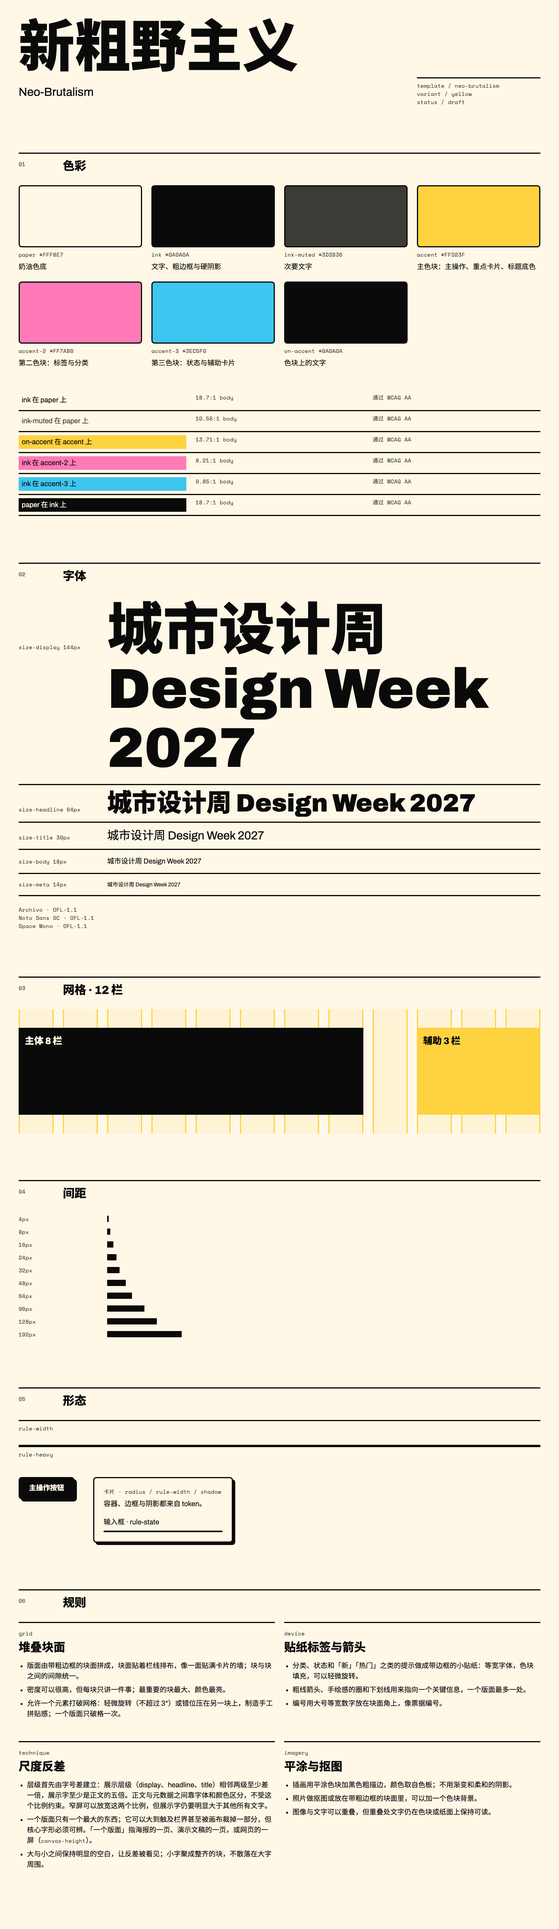
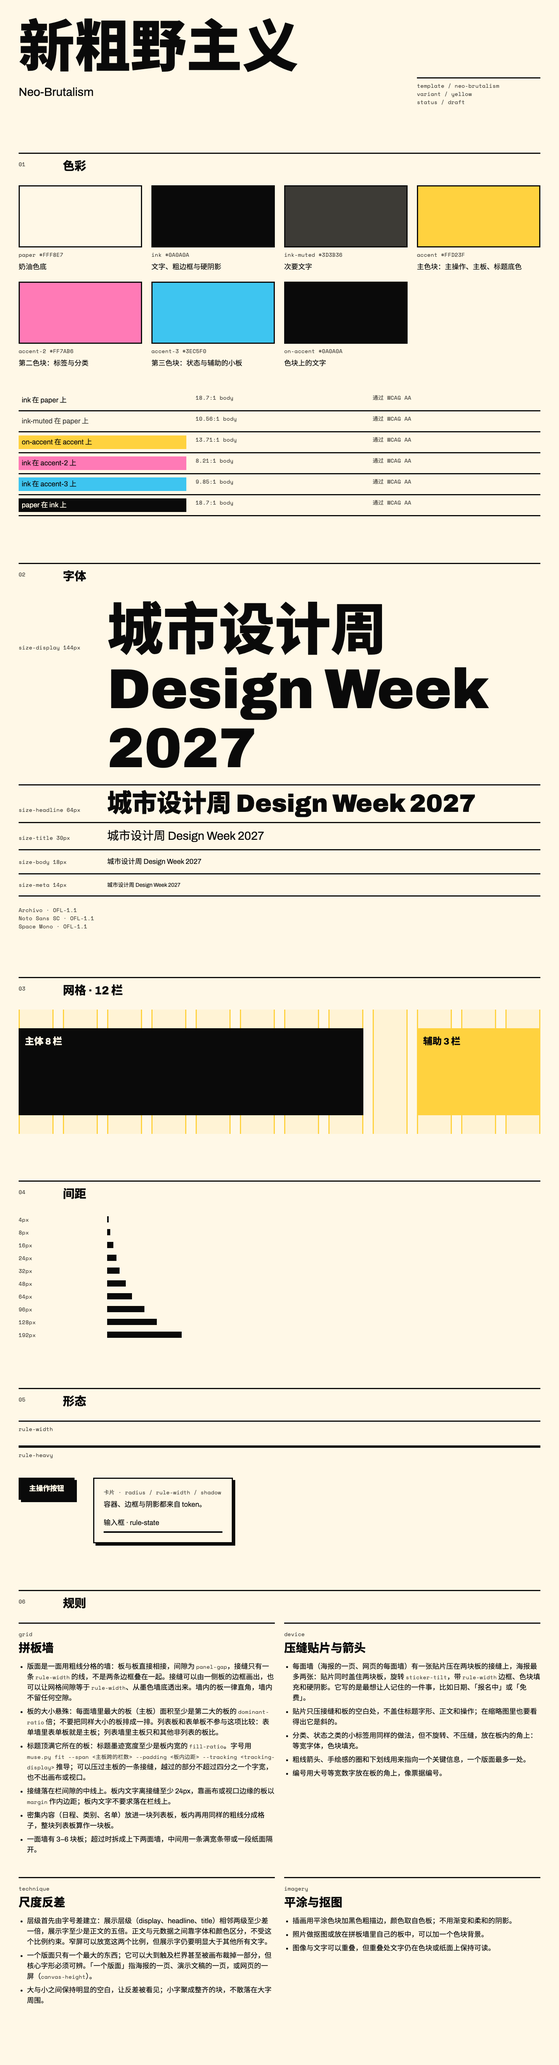
feat(musekit): give neo-brutalism a layout grammar of its own
The neo-brutalism grid seed stacked bordered cards on a uniform gutter,
so with colour and shadows removed the style collapsed into a generic
card grid. It is replaced by panel-wall: panels butt against each other
on one shared rule, one dominant panel outweighs the rest
(dominant-ratio) and its title fills it (fill-ratio), and a sticker
tilted by sticker-tilt straddles a seam. Each rule is a token so a
rendered page can be measured against it, and panel-wall declares
conflicts with the ma-interval and hairline seeds.

The template grammar and graphic and web adaptations are rewritten
around the wall, including form and list walls, tablet and mobile
fallbacks and inset focus rings inside the wall. Borders become square,
shadows are kept for controls and stickers, and the specimen is
re-rendered. The MIT-licensed neobrutalism-components library is added
as a precedent for component states and the marquee band.

Changed region(s): [[0.0312, 0.0, 0.9688, 0.9672], [0.7188, 0.468, 0.9688, 0.5928], [0.125, 0.6552, 0.1562, 0.6864]]

diff --git a/plugins/musekit/skills/musepool/library/templates/neo-brutalism.md b/plugins/musekit/skills/musepool/library/templates/neo-brutalism.md
@@ -11,7 +11,7 @@ mood: [直接, 有力, 好玩, 年轻, 叛逆, 热闹, 活力, 创意, 工具, b
 seeds:
   color: raw-primary
   typography: heavy-grotesk
-  grid: stacked-blocks
+  grid: panel-wall
   spacing: baseline-8
   shape: thick-border
   depth: hard-shadow
@@ -49,25 +49,31 @@ overrides:
         size-title: 22px
         ratio-adjacent: 1.6
         ratio-display: 3
-exemplars: [pibXRzsG, AT5oq8hX]
+exemplars: [pibXRzsG, AT5oq8hX, nB7kQ2mX]
 ---
 
 # 新粗野主义
 
 ## 精神
 
-把界面的结构直接露出来：粗边框、硬阴影、平涂的原色块和超粗的字，像一面贴满卡片和贴纸的墙。它不讨好，直接告诉你重点在哪里、按哪里。适合活动、创意工具和年轻品牌；关系与顺序必须坚决清楚，夸张才不会变成混乱。
+把版面的结构直接亮出来：一面用粗黑线分格的墙，板与板直接相接；一块大板压倒其余的小板，标题把大板塞满；一张歪着的贴片压在接缝上。它不讨好，直接告诉你重点在哪里、按哪里。适合活动、创意工具和年轻品牌。墙的分格必须坚决清楚，夸张才不会变成混乱。
 
 ## 文法
 
-- **网格**：12 栏上堆叠带粗边框的块面，间隙统一；密度可以高，但每块只讲一件事。一个版面只允许一处破格（轻微旋转或错位）。
-- **对齐**：块面贴着栏线；块内文字齐左，留足内边距。
-- **层级**：超粗展示字与常规正文形成强烈的尺度反差；最重要的块最大、颜色最亮。阴影只给可交互元素和最重要的一两块卡片，方向和距离全页一致。
-- **留白**：靠块与块之间的统一间隙和块内的内边距，而不是大片空白。
-- **色彩**：奶油底上平涂原色块，文字永远是黑色；三种色块按角色分工，彩色不做文字色。
-- **装置**：贴纸标签、粗线箭头、大号等宽编号。
-- **图像**：平涂插画或带粗边框、色块背景的抠图照片。
-- **状态**：悬停时阴影加长到 `shadow-hover`，按下时缩短到 `shadow-press` 并朝阴影方向位移；焦点框用 `rule-state` 黑线并与边框隔开 `focus-offset`；出错字段边框加粗到 `rule-state`，旁边一张写明原因的贴纸；完成态用主色块卡片替换表单。
+版式有三条必须同时成立的规则，去掉颜色和阴影后，靠它们认出这个风格：
+
+1. **零间隙拼板**：板与板直接相接，共用一条 `rule-width` 的线，`panel-gap` 为 0；墙内不留缝，板一律直角。
+2. **板面悬殊、字顶满板**：每面墙里主板面积至少是第二大的板的 `dominant-ratio` 倍；标题墨迹宽至少是主板内宽的 `fill-ratio`。
+3. **倾斜压缝**：每面墙有一张贴片压在两块板的接缝上（海报最多两张），旋转 `sticker-tilt`。
+
+- **网格**：12 栏只用来定接缝的位置，接缝落在栏间隙的中线上。一面墙有 3–6 块板；同级条目（类别、日程）收进一块列表板，板内用同样的粗线分格。
+- **对齐**：板内文字齐左，离接缝至少 24px；靠画布或视口边缘的板以 `margin` 作内边距。标题可以压过主板的一条接缝，越过的部分不超过四分之一个字宽，也不出画布或视口。
+- **层级**：主板最大、颜色最亮，里面只有标题、一句说明和主操作（或最关键的一条事实）。其余信息退到墙边的小板里。
+- **留白**：墙内没有空隙，透气靠板内的内边距；两面墙之间可以隔一段纸面或一条满宽条带。
+- **色彩**：奶油底上平涂原色板，文字永远是黑色；三种色板按角色分工，彩色不做文字色。可以有一块墨底的板，上面用纸色字。
+- **装置**：压缝贴片、粗线箭头、大号等宽编号。可选一条满宽条带，整个版面最多一条，水平放置：只有上下两条边线，左右出血，里面是等宽字重复的真实信息（日期、地点）；它可以静止，动起来时要尊重 reduced-motion。
+- **图像**：平涂插画或带粗边框、色块背景的抠图照片，放进自己的板里，与其他板共用接缝。
+- **状态**：悬停时阴影加长到 `shadow-hover`，按下时缩短到 `shadow-press` 并朝阴影方向位移；焦点框用 `rule-state` 黑线并与边框隔开 `focus-offset`，墙内相接的格子改用向内收的焦点框并填主色，否则外扩的框会被相邻格子盖住；出错字段边框加粗到 `rule-state`，旁边一张写明原因的标签；完成态用主色板替换表单所在的板。
 
 ## 场景适配
 
@@ -75,29 +81,32 @@ exemplars: [pibXRzsG, AT5oq8hX]
 
 海报、封面、社媒图。覆盖值按 1080 × 1440 的画布给出（`canvas-width`、`canvas-height`）。
 
-- 标题本身就是一块砖：超粗、紧排，可以放在一块主色块里，块面带硬阴影；或直接压在奶油底上跨满栏宽。
-- 日期、地点等信息放进几块小卡片，卡片带边框，用第二、三种色块区分；只有最重要的一张带阴影。
-- 用一张贴纸（旋转不超过 3°）标出最想让人记住的一件事，比如日期或「免费」。
-- 一个版面里色块最多三种，阴影方向一致。
+- 整张海报是一面墙：外框画在 `margin` 内，墙里 3–6 块板，海报可以给整面墙的外缘加一道硬阴影。
+- 主板跨满 12 栏，占墙面高度的一半以上，放标题、副标题和最关键的一条事实（通常是日期）。标题用 `fit --span 12 --padding <板内边距> --tracking <tracking-display>` 推导字号，顶满主板；主板下部的空白留给贴片。
+- 其余信息（地点、主办）排成主板下方或一侧的窄板，宽窄、高矮都不一样，不排成等大的格子。类别、日程之类的同级条目收进一块列表板。
+- 一张贴片压在主板与下方板的接缝上，旋转 `sticker-tilt`，写最想让人记住的一件事；最多再加一张。
+- 可选一条满宽条带横穿墙面，不算进板的数量；它不能占用贴片压住的那条接缝。
+- 一个版面里色板最多三种，加一块墨底板。
 
 ### web
 
 官网、落地页、工具界面。参照视口 1440 × 900px。
 
-- 首屏：超粗标题加一句说明，主操作是带粗边框和硬阴影的主色块按钮；旁边可以放一张旋转的贴纸或一块插画。
-- 内容区用卡片网格，每张卡片一个主题。内容有分类时用不同色块区分类型；没有分类时按重要性给一两张卡片上主色块，其余用纸色。可以点击的卡片才有阴影。
-- 首屏以下每一段换一种块面组合：大卡片加小卡片、横向条带、两栏贴纸墙，相邻两段不用同一种；每段有一块「最大的块」作为入口。
-- 导航是一排带边框的方形按钮或文字链接；多页站点的当前页用主色块填充，单页站点用锚点导航，当前章节加粗下划线。
-- 表单输入框用 `rule-width` 黑边框和奶油底，焦点时加主色块底和焦点框；出错与完成见文法里的「状态」，不只靠颜色。
-- 1100px 以下：卡片网格改为两列，展示字按 `tablet` 断点缩小，边框与阴影不变。
-- 窄屏退为 4 栏：卡片单列堆叠，阴影距离不变，展示字按 `mobile` 断点缩小。
+- 墙出血到视口两侧，左右外缘不画边框；`margin` 是靠边的板的内边距。
+- 导航是一条横向的板：每个导航项占一格，格与格共用竖线；当前项用主色板填充，单页站点用锚点导航，当前章节填充主色。
+- 首屏是一面墙：主板跨左侧 8 栏，放超粗标题、一句说明和主操作，标题用 `fit --span 8 --padding <板内边距> --tracking <tracking-display>` 推导；右侧 4 栏竖排日期、地点、主办三块小板，共用横线。一张贴片压在主板与右侧小板的接缝上。
+- 首屏以下每一段是一面新墙，同样满足文法的三条：零间隙、主板被标题顶满、一张压缝贴片。相邻两面墙的切分方式不同（左大右小、上大下小、主板加列表板）。这些墙的标题是章节入口，主板跨的栏数要让 `fit` 推出的字号不超过首屏标题。墙与墙之间可以隔一条满宽条带。
+- 类别、日程等同级条目收进一块列表板，板内粗线分格；可以点击的格子悬停时填充主色，不加阴影。按钮和贴片才有阴影。
+- 报名、联系之类的表单墙里，表单板就是主板：它的标题顶满表单板上方，平时用纸色，完成态填主色；步骤和须知放在旁边的窄板里。输入框用 `rule-width` 黑边框和奶油底，焦点时加主色底和焦点框；出错与完成见文法里的「状态」，不只靠颜色。
+- 1100px 以下：主板跨满宽度，右侧的小板移到主板下方，排成一行共用竖线；展示字按 `tablet` 断点缩小，贴片仍压在主板下缘的接缝上。
+- 窄屏退为 4 栏：所有板单列堆叠，仍共用横线、不留缝；每面墙的主板放在最前，高度至少是同墙其他非列表、非表单板的两倍；贴片缩小并保留旋转，整体留在视口内；条带保留，字号随 `size-title` 缩小。
 
 ## 常见误用
 
-只给普通卡片加粗黑框、随机涂上鲜艳颜色，并不是这种风格；所有元素都有阴影、都在旋转、都抢第一，页面就会变成噪音；把彩色当文字色会让内容读不清。判断方法：去掉颜色后，仍应能凭粗边框、硬阴影和超粗标题看出清楚的主次。
+最常见的退化是卡片网格：板之间留着统一的空隙，每块各自带边框、阴影和圆角，大小差不多。即使边框够粗、颜色够亮，也只是普通的卡片墙。其次是没有主次：所有板一样大，标题缩在板的一角，贴片端正地放在板里而不压缝。所有东西都有阴影、都在旋转、都抢第一时，页面会变成噪音；把彩色当文字色会让内容读不清。判断方法：转成灰度并去掉阴影后，仍应能看出一面零间隙的拼板墙、一块被标题塞满的主板和一张斜压在接缝上的贴片。
 
 ## 范例
 
-- `pibXRzsG` 活动设计机构：粉、橙、绿整块撞色的分区和超粗紧排的标题。借它的色块撞色与标题力度，不借它的胶囊按钮。
+- `pibXRzsG` 活动设计机构：满幅色块分区、一块占满视口高的巨大色块和一条横向滚动条带。借它的主板压倒和条带，不借它的胶囊按钮和居中构图。
 - `AT5oq8hX` 品牌设计师作品集：黑底上的超大标题和橙色动态文字段落，标签为 brutalist。借它直接、不讨好的标题处理。
-- 库中暂无同时具备粗边框与硬阴影的真实范例。
+- `nB7kQ2mX` 新粗野主义组件库：粗边框、硬阴影和满宽条带的组件级做法。借它的条带和状态细节；它的悬停是平移进阴影、阴影归零，这里改为阴影加长。它的页面是卡片网格，版式不从它借。

diff --git a/plugins/musekit/skills/musepool/library/precedents/ui/neobrutalism-components-nb7kq2mx.md b/plugins/musekit/skills/musepool/library/precedents/ui/neobrutalism-components-nb7kq2mx.md
@@ -1,0 +1,92 @@
+---
+id: nB7kQ2mX
+scenario: ui
+scenario_name: 界面
+category: neobrutalism component library
+modality: design-system
+view_type: component-library
+source_url: https://github.com/ekmas/neobrutalism-components
+source_revision: f3c4d42973819ab5cf18697d08d6bd46f384d335
+source_license: MIT
+visual_assets_included: false
+core_dimensions:
+- color
+- typography
+- craft
+scores:
+  anti_slop_value: 0.6
+  code_value: 0.8
+  density: 0.5
+  motion_intensity: 0.3
+  novelty: 0.5
+  visual_value: 0.6
+tags:
+  color:
+  - multi-accent
+  - saturated
+  - black-outline
+  domain:
+  - developer-tools
+  - design-system
+  imagery:
+  - no-imagery
+  - svg-led
+  layout:
+  - centered
+  - card-grid
+  material:
+  - no-material
+  motion:
+  - marquee
+  - hover-reveal
+  style:
+  - bold
+  - playful
+  - brutalist
+  tech:
+  - react
+  - tailwind
+  - shadcn-ui
+  typography:
+  - sans-serif
+  - grotesque
+dimensions_with_reference:
+- craft
+---
+
+> 借鉴范围：只借组件层的状态与条带做法；它的页面是居中首屏加卡片网格，版式不作为参考。下文记录参考本身的方法，其参数、布局和技术栈不自动成为当前任务要求。
+
+# Narrative
+
+An open-source collection of neobrutalism-styled React components built on shadcn/ui, presented on a documentation site with a centered landing hero, scattered star shapes and a single call to action. Its purpose is to give developers a ready vocabulary for the style at the component level: buttons, cards, inputs, menus, charts and a marquee band.
+
+# Tech Stack
+
+React components on shadcn/ui and Base UI, styled with Tailwind CSS v4. Style values live in CSS custom properties in one global stylesheet and are exposed as Tailwind theme tokens, so a palette or shadow offset changes in one place. No visual assets from the source project are bundled here; method notes are adapted from the MIT-licensed source at the revision recorded in frontmatter. See `references/third-party-notices.md`.
+
+# Layout
+
+The library does not prescribe page layout. The documentation site is a centered hero followed by component previews; cards in examples sit in ordinary gapped grids.
+
+# Typography
+
+A single geometric sans (DM Sans by default) with two weights: 700 for headings, 500 for base text. Hierarchy comes from size and weight rather than from a separate display face.
+
+# Color
+
+One main accent (a saturated blue by default, swappable), black borders and foreground, and a light secondary background. Shadows and borders share the border color, so the outline and the offset shadow read as one black drawing.
+
+# Components
+
+- Every container and control has a 2px solid black border and a 5px radius.
+- The default shadow is a hard 4px × 4px offset with no blur, in the border color.
+- Default buttons move by the shadow offset on hover and drop the shadow, so the button appears pressed into its own shadow; a `reverse` variant starts flat and gains the shadow on hover; a `noShadow` variant exists for dense contexts.
+- The marquee is a full-width band with top and bottom borders only, bleeding past the side edges, with large repeated text items scrolling horizontally.
+
+# Motion
+
+Motion is limited to the marquee scroll and the press-into-shadow hover translation. Both are short, linear and mechanical rather than springy.
+
+# Craft
+
+The value of the library is consistency: one border width, one shadow offset and one radius across every component, all driven by tokens.

diff --git a/plugins/musekit/skills/musepool/library/seeds/grid/panel-wall.md b/plugins/musekit/skills/musepool/library/seeds/grid/panel-wall.md
@@ -1,0 +1,48 @@
+---
+id: panel-wall
+category: grid
+nature: rule
+name: 拼板墙
+status: draft
+scenes: [graphic, web, slides]
+affinity: [neo-brutalism]
+conflicts: [off-center-void, ma-interval, zero-radius-hairline]
+tokens:
+  canvas-width:
+    value: 1440px
+    role: 参照画布宽度：网页是参照视口宽，平面是画布宽
+  canvas-height:
+    value: 900px
+    role: 参照画布高度：网页是首屏高度，平面是画布高度
+  columns:
+    value: 12
+  gutter:
+    value: 24px
+    role: 栏间隙：只用来定栏线；板与板之间不留间隙，接缝落在栏间隙的中线上
+  margin:
+    value: 48px
+  panel-gap:
+    value: 0px
+    role: 相邻两块板的间隙：板与板直接相接，共用一条 rule-width 的线
+  dominant-ratio:
+    value: 2
+    role: 一面墙里最大的板与第二大的板的最小面积比
+  fill-ratio:
+    value: 0.9
+    role: 标题墨迹宽度占所在板内宽的最小比例
+---
+
+# 拼板墙
+
+## 要点
+
+- 版面是一面用粗线分格的墙：板与板直接相接，间隙为 `panel-gap`，接缝只有一条 `rule-width` 的线，不是两条边框叠在一起。接缝可以由一侧板的边框画出，也可以让网格间隙等于 `rule-width`、从墨色墙底透出来。墙内的板一律直角，墙内不留任何空隙。
+- 板的大小悬殊：每面墙里最大的板（主板）面积至少是第二大的板的 `dominant-ratio` 倍；不要把同样大小的板排成一排。列表板和表单板不参与这项比较：表单墙里表单板就是主板；列表墙里主板只和其他非列表的板比。
+- 标题顶满它所在的板：标题墨迹宽度至少是板内宽的 `fill-ratio`。字号用 `muse.py fit --span <主板跨的栏数> --padding <板内边距> --tracking <tracking-display>` 推导；可以压过主板的一条接缝，越过的部分不超过四分之一个字宽，也不出画布或视口。
+- 接缝落在栏间隙的中线上。板内文字离接缝至少 24px，靠画布或视口边缘的板以 `margin` 作内边距；板内文字不要求落在栏线上。
+- 密集内容（日程、类别、名单）放进一块列表板，板内再用同样的粗线分成格子，整块列表板算作一块板。
+- 一面墙有 3–6 块板；超过时拆成上下两面墙，中间用一条满宽条带或一段纸面隔开。
+
+## 适用与边界
+
+拼板墙不是卡片网格：如果板之间留了缝、每块各自带阴影或圆角，读者看到的就是一排卡片。主板里只放标题、一句说明和主操作（或最关键的一条事实），不要再嵌套小卡片。表单和数据表放在自己的板里，板内保持规整。

diff --git a/plugins/musekit/skills/musepool/references/third-party-notices.md b/plugins/musekit/skills/musepool/references/third-party-notices.md
@@ -15,3 +15,19 @@ The above copyright notice and this permission notice shall be included in all c
 THE SOFTWARE IS PROVIDED "AS IS", WITHOUT WARRANTY OF ANY KIND, EXPRESS OR IMPLIED, INCLUDING BUT NOT LIMITED TO THE WARRANTIES OF MERCHANTABILITY, FITNESS FOR A PARTICULAR PURPOSE AND NONINFRINGEMENT. IN NO EVENT SHALL THE AUTHORS OR COPYRIGHT HOLDERS BE LIABLE FOR ANY CLAIM, DAMAGES OR OTHER LIABILITY, WHETHER IN AN ACTION OF CONTRACT, TORT OR OTHERWISE, ARISING FROM, OUT OF OR IN CONNECTION WITH THE SOFTWARE OR THE USE OR OTHER DEALINGS IN THE SOFTWARE.
 
 The source repository's visual examples and artwork use a separate, more restrictive asset license. No such visual assets are copied or bundled here.
+
+## neobrutalism-components
+
+The `library/precedents/ui/neobrutalism-components-nb7kq2mx.md` precedent records component-level methods from [ekmas/neobrutalism-components](https://github.com/ekmas/neobrutalism-components) at revision `f3c4d42973819ab5cf18697d08d6bd46f384d335`.
+
+MIT License
+
+Copyright (c) 2023 Samuel Breznjak
+
+Permission is hereby granted, free of charge, to any person obtaining a copy of this software and associated documentation files (the "Software"), to deal in the Software without restriction, including without limitation the rights to use, copy, modify, merge, publish, distribute, sublicense, and/or sell copies of the Software, and to permit persons to whom the Software is furnished to do so, subject to the following conditions:
+
+The above copyright notice and this permission notice shall be included in all copies or substantial portions of the Software.
+
+THE SOFTWARE IS PROVIDED "AS IS", WITHOUT WARRANTY OF ANY KIND, EXPRESS OR IMPLIED, INCLUDING BUT NOT LIMITED TO THE WARRANTIES OF MERCHANTABILITY, FITNESS FOR A PARTICULAR PURPOSE AND NONINFRINGEMENT. IN NO EVENT SHALL THE AUTHORS OR COPYRIGHT HOLDERS BE LIABLE FOR ANY CLAIM, DAMAGES OR OTHER LIABILITY, WHETHER IN AN ACTION OF CONTRACT, TORT OR OTHERWISE, ARISING FROM, OUT OF OR IN CONNECTION WITH THE SOFTWARE OR THE USE OR OTHER DEALINGS IN THE SOFTWARE.
+
+No code, screenshots or visual assets from the source repository are copied or bundled here.

diff --git a/plugins/musekit/skills/musepool/library/seeds/device/sticker-label.md b/plugins/musekit/skills/musepool/library/seeds/device/sticker-label.md
@@ -2,21 +2,27 @@
 id: sticker-label
 category: device
 nature: rule
-name: 贴纸标签与箭头
+name: 压缝贴片与箭头
 status: draft
 scenes: [graphic, web, slides]
 affinity: [neo-brutalism]
 conflicts: []
+tokens:
+  sticker-tilt:
+    value: 6deg
+    role: 压缝贴片的旋转角度；可在 4–8° 之间取值，同一版面统一，方向可以相反
 ---
 
-# 贴纸标签与箭头
+# 压缝贴片与箭头
 
 ## 要点
 
-- 分类、状态和「新」「热门」之类的提示做成带边框的小贴纸：等宽字体，色块填充，可以轻微旋转。
+- 每面墙（海报的一页、网页的每面墙）有一张贴片压在两块板的接缝上，海报最多两张：贴片同时盖住两块板，旋转 `sticker-tilt`，带 `rule-width` 边框、色块填充和硬阴影。它写的是最想让人记住的一件事，比如日期、「报名中」或「免费」。
+- 贴片只压接缝和板的空白处，不盖住标题字形、正文和操作；在缩略图里也要看得出它是斜的。
+- 分类、状态之类的小标签用同样的做法，但不旋转、不压缝，放在板内的角上：等宽字体，色块填充。
 - 粗线箭头、手绘感的圈和下划线用来指向一个关键信息，一个版面最多一处。
-- 编号用大号等宽数字放在块面角上，像票据编号。
+- 编号用大号等宽数字放在板的角上，像票据编号。
 
 ## 适用与边界
 
-贴纸写的必须是真实状态（日期、名额、分类），不为热闹编造「火爆」「仅剩」之类的促销话术。
+贴片写的必须是真实状态（日期、名额、分类），不为热闹编造「火爆」「仅剩」之类的促销话术。贴片不压在墨底板上：墨色阴影在墨底上看不见，贴片会显得没贴上去。窄屏上贴片缩小但保留旋转，整体留在视口内，不产生横向滚动。

diff --git a/plugins/musekit/skills/musepool/library/seeds/depth/hard-shadow.md b/plugins/musekit/skills/musepool/library/seeds/depth/hard-shadow.md
@@ -10,23 +10,23 @@ conflicts: []
 tokens:
   shadow:
     value: "6px 6px 0 0 #0A0A0A"
-    role: 块面与按钮的实心错位阴影
+    role: 按钮与贴片的实心错位阴影
   shadow-hover:
     value: "8px 8px 0 0 #0A0A0A"
     role: 悬停时加长的阴影
   shadow-press:
     value: "2px 2px 0 0 #0A0A0A"
-    role: 按下时的阴影：块面同时向右下移动 4px
+    role: 按下时的阴影：元素同时向右下移动 4px
 ---
 
 # 硬阴影
 
 ## 要点
 
-- 阴影是不模糊的黑色实心块，向右下错开，让块面像贴纸一样浮起来。
-- 交互时用阴影表达状态：悬停时加长到 `shadow-hover`，按下时缩短到 `shadow-press`，块面朝阴影方向移动同样的距离。
+- 阴影是不模糊的黑色实心块，向右下错开，让按钮和贴片像贴纸一样浮起来。
+- 交互时用阴影表达状态：悬停时加长到 `shadow-hover`，按下时缩短到 `shadow-press`，元素朝阴影方向移动同样的距离。
 - 同一页里所有阴影方向和距离一致。
 
 ## 适用与边界
 
-阴影只给可交互的元素和最重要的一两块卡片；所有东西都有阴影时，就没有东西浮起来了。
+阴影只给按钮等可交互元素和压缝贴片。拼板墙里相接的板不带阴影，否则接缝会变成一排浮起的卡片；海报可以给整面墙的外缘加一道阴影。所有东西都有阴影时，就没有东西浮起来了。

diff --git a/plugins/musekit/skills/musepool/library/seeds/shape/thick-border.md b/plugins/musekit/skills/musepool/library/seeds/shape/thick-border.md
@@ -9,11 +9,11 @@ affinity: [neo-brutalism]
 conflicts: []
 tokens:
   radius:
-    value: 8px
-    role: 小圆角；也可以统一为 0
+    value: 0px
+    role: 全部直角：拼板墙的板要直接相接，圆角会在接缝处留下缺口
   rule-width:
     value: 3px
-    role: 块面、按钮、输入框的边框
+    role: 板、按钮、输入框的边框；相接的板共用一条
   rule-state:
     value: 4px
     role: 焦点框与出错字段，比边框更粗
@@ -29,10 +29,10 @@ tokens:
 
 ## 要点
 
-- 所有块面、按钮、输入框、图片都有 3px 黑色实线边框；边框是风格的骨架。
-- 圆角要么统一的小圆角，要么全部直角，不混用；不用胶囊形按钮。
+- 所有板、按钮、输入框、图片都有 `rule-width` 黑色实线边框；边框是风格的骨架。相接的两块板只画一条线，不叠成双线；网页上出血到视口边缘的那一侧不画边框。
+- 全部直角，不用胶囊形按钮。
 - 焦点框用 `rule-state` 黑线，与元素边框隔开 `focus-offset`，保证在色块上也清楚可见；出错字段的边框同样加粗到 `rule-state`。
 
 ## 适用与边界
 
-边框围起来的是内容单元，不要给每一行文字都加框。
+边框围起来的是内容单元，不要给每一行文字都加框。分区的粗分隔线 `rule-heavy` 只用在两面墙之间。

diff --git a/plugins/musekit/skills/musepool/library/seeds/color/raw-primary.md b/plugins/musekit/skills/musepool/library/seeds/color/raw-primary.md
@@ -19,13 +19,13 @@ tokens:
     role: 次要文字
   accent:
     value: "#FFD23F"
-    role: 主色块：主操作、重点卡片、标题底色
+    role: 主色块：主操作、主板、标题底色
   accent-2:
     value: "#FF7AB6"
     role: 第二色块：标签与分类
   accent-3:
     value: "#3EC5F0"
-    role: 第三色块：状态与辅助卡片
+    role: 第三色块：状态与辅助的小板
   on-accent:
     value: "#0A0A0A"
     role: 色块上的文字
@@ -51,7 +51,7 @@ pairs:
 ## 要点
 
 - 色块是主角：鲜明的原色平涂在奶油色底上，每块都有黑色粗边框；文字永远是黑色，放在色块里。
-- 色块按角色分工：`accent` 给主操作和最重要的卡片，`accent-2` 给标签，`accent-3` 给状态；一页里三种以内。
+- 色块按角色分工：`accent` 给主操作和主板，`accent-2` 给标签，`accent-3` 给状态；一页里三种以内。
 - 彩色永远不做文字色：黄、粉、青放在奶油底上几乎没有对比。
 
 ## 适用与边界

diff --git a/plugins/musekit/skills/musepool/library/seeds/imagery/flat-cutout.md b/plugins/musekit/skills/musepool/library/seeds/imagery/flat-cutout.md
@@ -14,7 +14,7 @@ conflicts: []
 ## 要点
 
 - 插画用平涂色块加黑色粗描边，颜色取自色板；不用渐变和柔和的阴影。
-- 照片做抠图或放在带粗边框的块面里，可以加一个色块背景。
+- 照片做抠图或放在拼板墙里自己的板中，可以加一个色块背景。
 - 图像与文字可以重叠，但重叠处文字仍在色块或纸面上保持可读。
 
 ## 适用与边界

diff --git a/plugins/musekit/skills/musepool/library/seeds/grid/off-center-void.md b/plugins/musekit/skills/musepool/library/seeds/grid/off-center-void.md
@@ -6,7 +6,7 @@ name: 偏心留白网格
 status: draft
 scenes: [graphic, web, slides]
 affinity: [japanese-ma]
-conflicts: [stacked-blocks]
+conflicts: [panel-wall]
 tokens:
   canvas-width:
     value: 1440px
